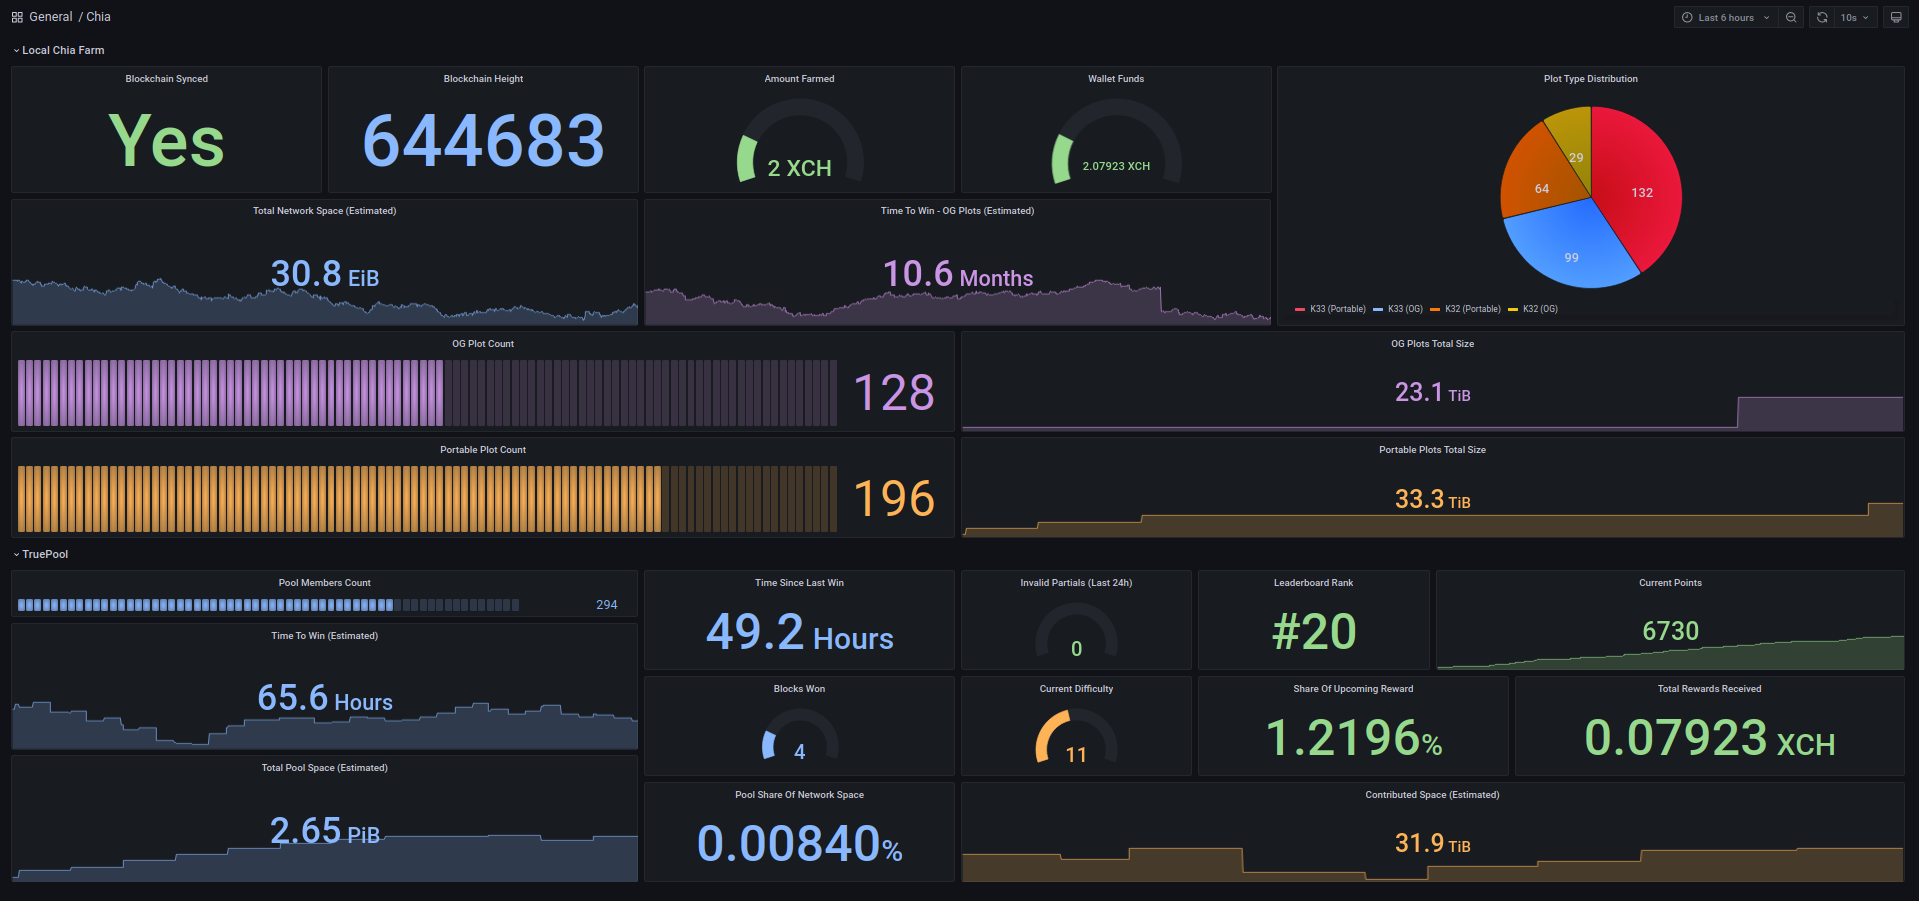
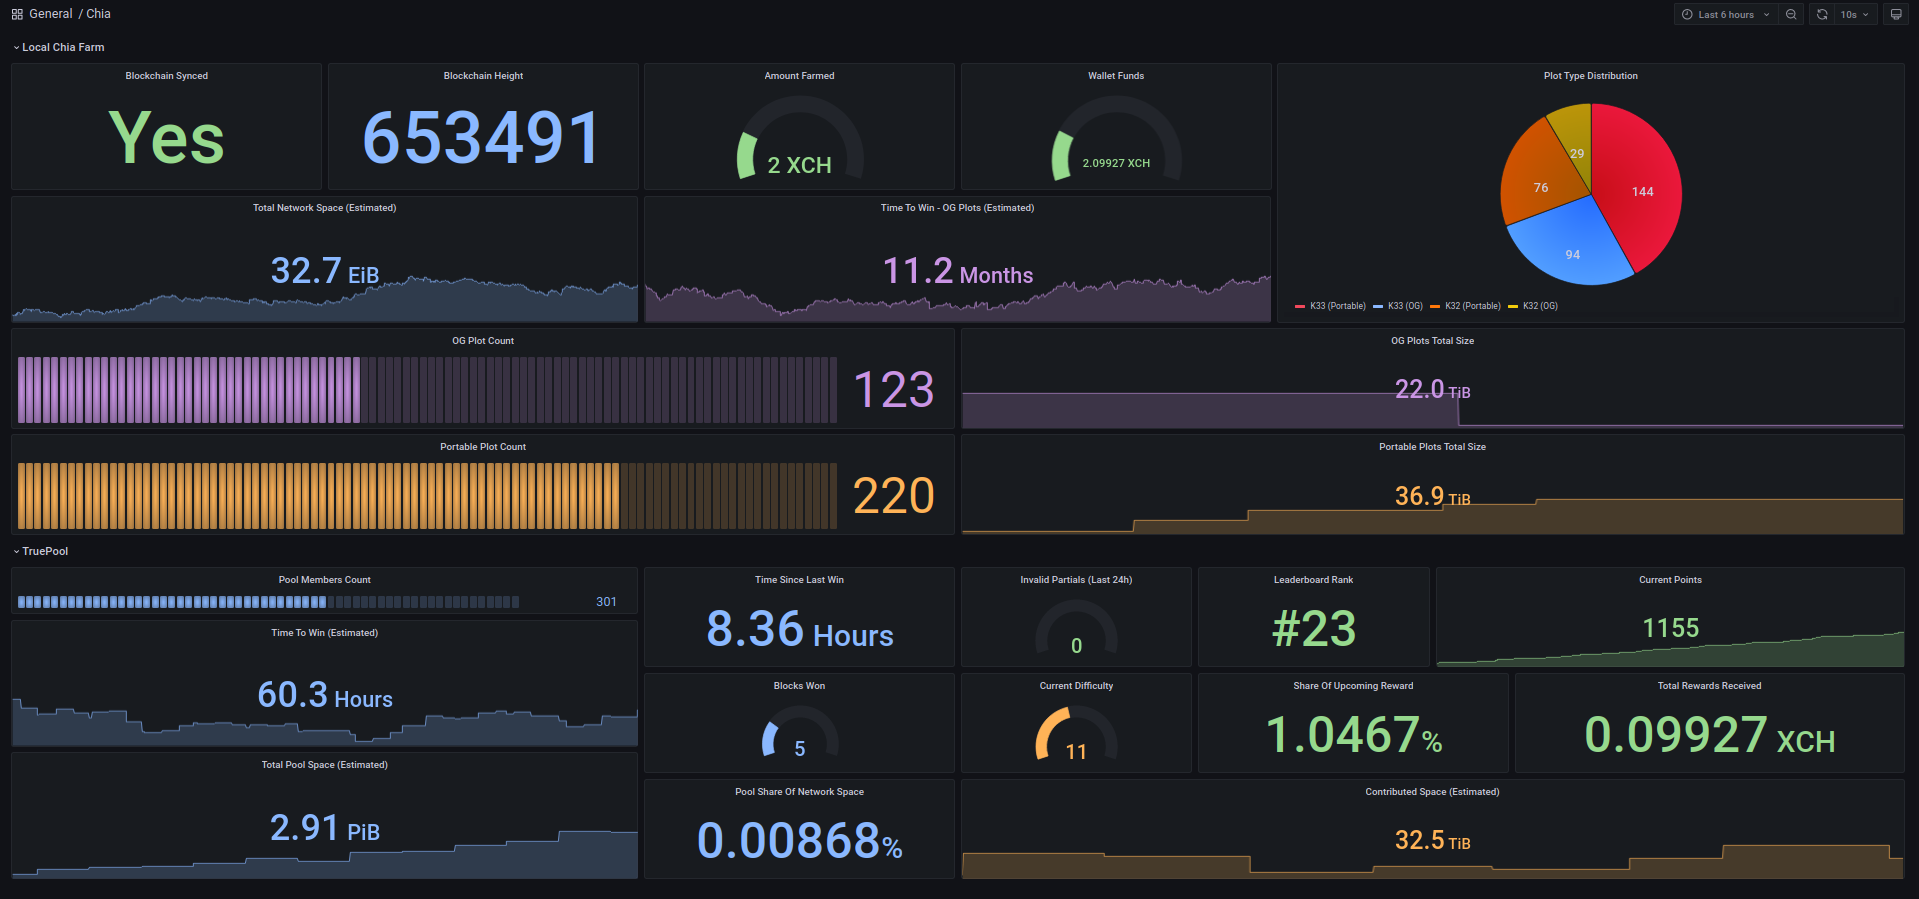
Plot count based on k plot stats + minor adjustments

diff --git a/scripts/modules/chia_stats.py b/scripts/modules/chia_stats.py
@@ -1,8 +1,8 @@
 #!/usr/bin/env python3
 '''
 @author: Winter Snowfall
-@version: 1.30
-@date: 29/07/2021
+@version: 1.40
+@date: 01/08/2021
 
 Warning: Built for use with python 3.6+
 '''
@@ -34,16 +34,14 @@ logger.addHandler(logger_file_handler)
 class chia_stats:
     '''gather stats using the chia RPC clients'''
     
+    og_size = 0
+    portable_size = 0
     plots_k32_og = 0
     plots_k33_og = 0
     plots_k32_portable = 0
     plots_k33_portable = 0
-    og_count = 0
-    portable_count = 0
-    og_size = 0
-    portable_size = 0
     sync_status = False
-    total_size = 0
+    network_space_size = 0
     og_time_to_win = 0
     current_height = 0
     wallet_funds = 0
@@ -55,16 +53,14 @@ class chia_stats:
     def clear_stats(self):
         #note to self - it might make sense to accumulate some stats in 
         #the future, depending on what grafana charts are being exposed
+        self.og_size = 0
+        self.portable_size = 0
         self.plots_k32_og = 0
         self.plots_k33_og = 0
         self.plots_k32_portable = 0
         self.plots_k33_portable = 0
-        self.og_count = 0
-        self.portable_count = 0
-        self.og_size = 0
-        self.portable_size = 0
         self.sync_status = False
-        self.total_size = 0
+        self.network_space_size = 0
         self.og_time_to_win = 0
         self.current_height = 0
         self.wallet_funds = 0
@@ -92,7 +88,6 @@ class chia_stats:
             
             for plot in plots['plots']:
                 if plot['pool_public_key'] is not None:
-                    self.og_count += 1
                     self.og_size += plot["file_size"]
                     
                     if plot['size'] == 32:
@@ -103,7 +98,6 @@ class chia_stats:
                         self.plots_k33_og += 1
                     
                 else:
-                    self.portable_count += 1
                     self.portable_size += plot['file_size']
                     
                     if plot['size'] == 32:
@@ -113,11 +107,8 @@ class chia_stats:
                         logger.debug('Found k33 plot!')
                         self.plots_k33_portable += 1
                         
-            logger.debug(f'og_count: {self.og_count}')
             logger.debug(f'og_size: {self.og_size}')
-            logger.debug(f'portable_count: {self.portable_count}')
             logger.debug(f'portable_size: {self.portable_size}')
-            
             logger.debug(f'plots_k32_og: {self.plots_k32_og}')
             logger.debug(f'plots_k33_og: {self.plots_k33_og}')
             logger.debug(f'plots_k32_portable: {self.plots_k32_portable}')
@@ -129,13 +120,13 @@ class chia_stats:
             blockchain = await self.fullnode.get_blockchain_state()
             
             self.sync_status = blockchain['sync'].get('synced')
-            self.total_size = blockchain['space']
+            self.network_space_size = blockchain['space']
             
             average_block_time = await get_average_block_time(fullnode_port)
-            self.og_time_to_win = int((average_block_time) / (self.og_size / self.total_size))
+            self.og_time_to_win = int((average_block_time) / (self.og_size / self.network_space_size))
             
             logger.debug(f'sync_status: {self.sync_status}')
-            logger.debug(f'total_size: {self.total_size}')
+            logger.debug(f'network_space_size: {self.network_space_size}')
             logger.debug(f'og_time_to_win: {self.og_time_to_win}')
             #########################################################
             

diff --git a/scripts/chiatter.py b/scripts/chiatter.py
@@ -1,8 +1,8 @@
 #!/usr/bin/env python3
 '''
 @author: Winter Snowfall
-@version: 1.30
-@date: 29/07/2021
+@version: 1.40
+@date: 01/08/2021
 
 Warning: Built for use with python 3.6+
 '''
@@ -32,15 +32,13 @@ truepool_stats_error_counter = 0
 # Prometheus client metrics
 
 #---------------------- chia_stats ----------------------------------------------
-chia_stats_og_count = Gauge('chia_stats_og_count', 'Total number of og plots')
 chia_stats_og_size = Gauge('chia_stats_og_size', 'Total size of og plots')
-chia_stats_portable_count = Gauge('chia_stats_portable_count', 'Total number of portable plots')
 chia_stats_portable_size = Gauge('chia_stats_portable_size', 'Total size of portable plots')
 chia_stats_plots_k32_og = Gauge('chia_stats_plots_k32_og', 'Number of og k32 plots')
 chia_stats_plots_k33_og = Gauge('chia_stats_plots_k33_og', 'Number of og k33 plots')
 chia_stats_plots_k32_portable = Gauge('chia_stats_plots_k32_portable', 'Number of portable k32 plots')
 chia_stats_plots_k33_portable = Gauge('chia_stats_plots_k33_portable', 'Number of portable k33 plots')
-chia_stats_total_size = Gauge('chia_stats_total_size', 'Total network space')
+chia_stats_network_space_size = Gauge('chia_stats_network_space_size', 'Total network space')
 chia_stats_chia_farmed = Gauge('chia_stats_chia_farmed', 'XCH farmed')
 chia_stats_og_time_to_win = Gauge('chia_stats_og_time_to_win', 'OG time to win')
 chia_stats_sync_status = Gauge('chia_stats_sync_status', 'Blockchain synced status')
@@ -81,15 +79,13 @@ def chia_stats_worker(loop):
             coroutine = chia_stats_inst.collect_stats()
             loop.run_until_complete(coroutine)
             
-            chia_stats_og_count.set(chia_stats_inst.og_count)
             chia_stats_og_size.set(chia_stats_inst.og_size)
-            chia_stats_portable_count.set(chia_stats_inst.portable_count)
             chia_stats_portable_size.set(chia_stats_inst.portable_size)
             chia_stats_plots_k32_og.set(chia_stats_inst.plots_k32_og)
             chia_stats_plots_k33_og.set(chia_stats_inst.plots_k33_og)
             chia_stats_plots_k32_portable.set(chia_stats_inst.plots_k32_portable)
             chia_stats_plots_k33_portable.set(chia_stats_inst.plots_k33_portable)
-            chia_stats_total_size.set(chia_stats_inst.total_size)
+            chia_stats_network_space_size.set(chia_stats_inst.network_space_size)
             chia_stats_chia_farmed.set(chia_stats_inst.chia_farmed)
             chia_stats_og_time_to_win.set(chia_stats_inst.og_time_to_win)
             chia_stats_sync_status.set(chia_stats_inst.sync_status)

diff --git a/scripts/modules/truepool_stats.py b/scripts/modules/truepool_stats.py
@@ -1,8 +1,8 @@
 #!/usr/bin/env python3
 '''
 @author: Winter Snowfall
-@version: 1.30
-@date: 29/07/2021
+@version: 1.40
+@date: 01/08/2021
 
 Warning: Built for use with python 3.6+
 '''
